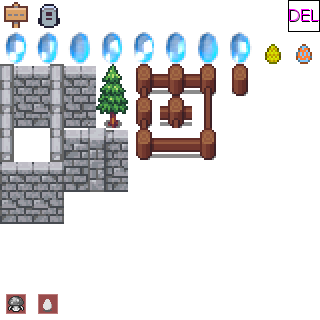
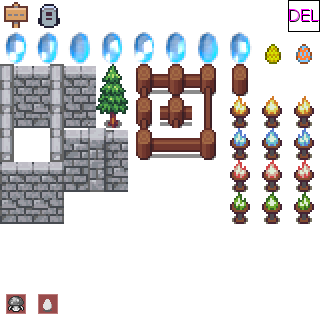
Torches

Changed region(s): [[0.8125, 0.2812, 1.0, 0.7188], [0.7188, 0.3125, 0.7812, 0.7188]]

diff --git a/www/game.js b/www/game.js
@@ -237,6 +237,30 @@ function begin_loadSprites() {
 	
 	createWalkingAnimSprites("entity" + game.uniqueEntityIDs++,"darkerCharacters",32,32,96,0);//Sprite(s): Zombie Entity (up/dn/lf/rt, walking and idle)
 	
+	var tmp = engine.createSprite("entity" + game.uniqueEntityIDs++,"objects",32,32);	//Sprite: Torch Yellow
+	for (var i = 0; i < 4; i++) {
+		var y = i < 3 ? i : 1;	//Frames 0-1-2-1
+		tmp.addFrame(224+(y*32),96,3);
+	}
+	
+	var tmp = engine.createSprite("entity" + game.uniqueEntityIDs++,"objects",32,32);	//Sprite: Torch Blue
+	for (var i = 0; i < 4; i++) {
+		var y = i < 3 ? i : 1;	//Frames 0-1-2-1
+		tmp.addFrame(224+(y*32),128,3);
+	}
+	
+	var tmp = engine.createSprite("entity" + game.uniqueEntityIDs++,"objects",32,32);	//Sprite: Torch Red
+	for (var i = 0; i < 4; i++) {
+		var y = i < 3 ? i : 1;	//Frames 0-1-2-1
+		tmp.addFrame(224+(y*32),160,3);
+	}
+	
+	var tmp = engine.createSprite("entity" + game.uniqueEntityIDs++,"objects",32,32);	//Sprite: Torch Green
+	for (var i = 0; i < 4; i++) {
+		var y = i < 3 ? i : 1;	//Frames 0-1-2-1
+		tmp.addFrame(224+(y*32),192,3);
+	}
+	
 	//ATTACK SPRITES
 	var tmp = engine.createSprite("attack0","items",32,32);	//Sprite: Default Attack
 	for (var atFrame = 0; atFrame < 6; atFrame++) {

diff --git a/src/entity/EntityType.java b/src/entity/EntityType.java
@@ -42,6 +42,10 @@ public class EntityType {
 	public static final int FENCE_FRONT_RIGHT			= 36;
 	public static final int FENCE_POST					= 37;
 	public static final int ZOMBIE						= 38;
+	public static final int TORCH_YELLOW				= 39;
+	public static final int TORCH_BLUE					= 40;
+	public static final int TORCH_RED					= 41;
+	public static final int TORCH_GREEN					= 42;
 
 	
 	//STATIC ENTITIES
@@ -93,6 +97,10 @@ public class EntityType {
 		STATIC_ENTITIES.add(FENCE_FRONT);
 		STATIC_ENTITIES.add(FENCE_FRONT_RIGHT);
 		STATIC_ENTITIES.add(FENCE_POST);
+		STATIC_ENTITIES.add(TORCH_YELLOW);
+		STATIC_ENTITIES.add(TORCH_BLUE);
+		STATIC_ENTITIES.add(TORCH_RED);
+		STATIC_ENTITIES.add(TORCH_GREEN);
 		
 		
 		SPAWNERS.add(SPAWNER_MUSHROOM);
@@ -126,6 +134,10 @@ public class EntityType {
 		COLLIDABLE_ENTITIES.add(FENCE_FRONT);
 		COLLIDABLE_ENTITIES.add(FENCE_FRONT_RIGHT);
 		COLLIDABLE_ENTITIES.add(FENCE_POST);
+		COLLIDABLE_ENTITIES.add(TORCH_YELLOW);
+		COLLIDABLE_ENTITIES.add(TORCH_BLUE);
+		COLLIDABLE_ENTITIES.add(TORCH_RED);
+		COLLIDABLE_ENTITIES.add(TORCH_GREEN);
 		
 	}
 	
